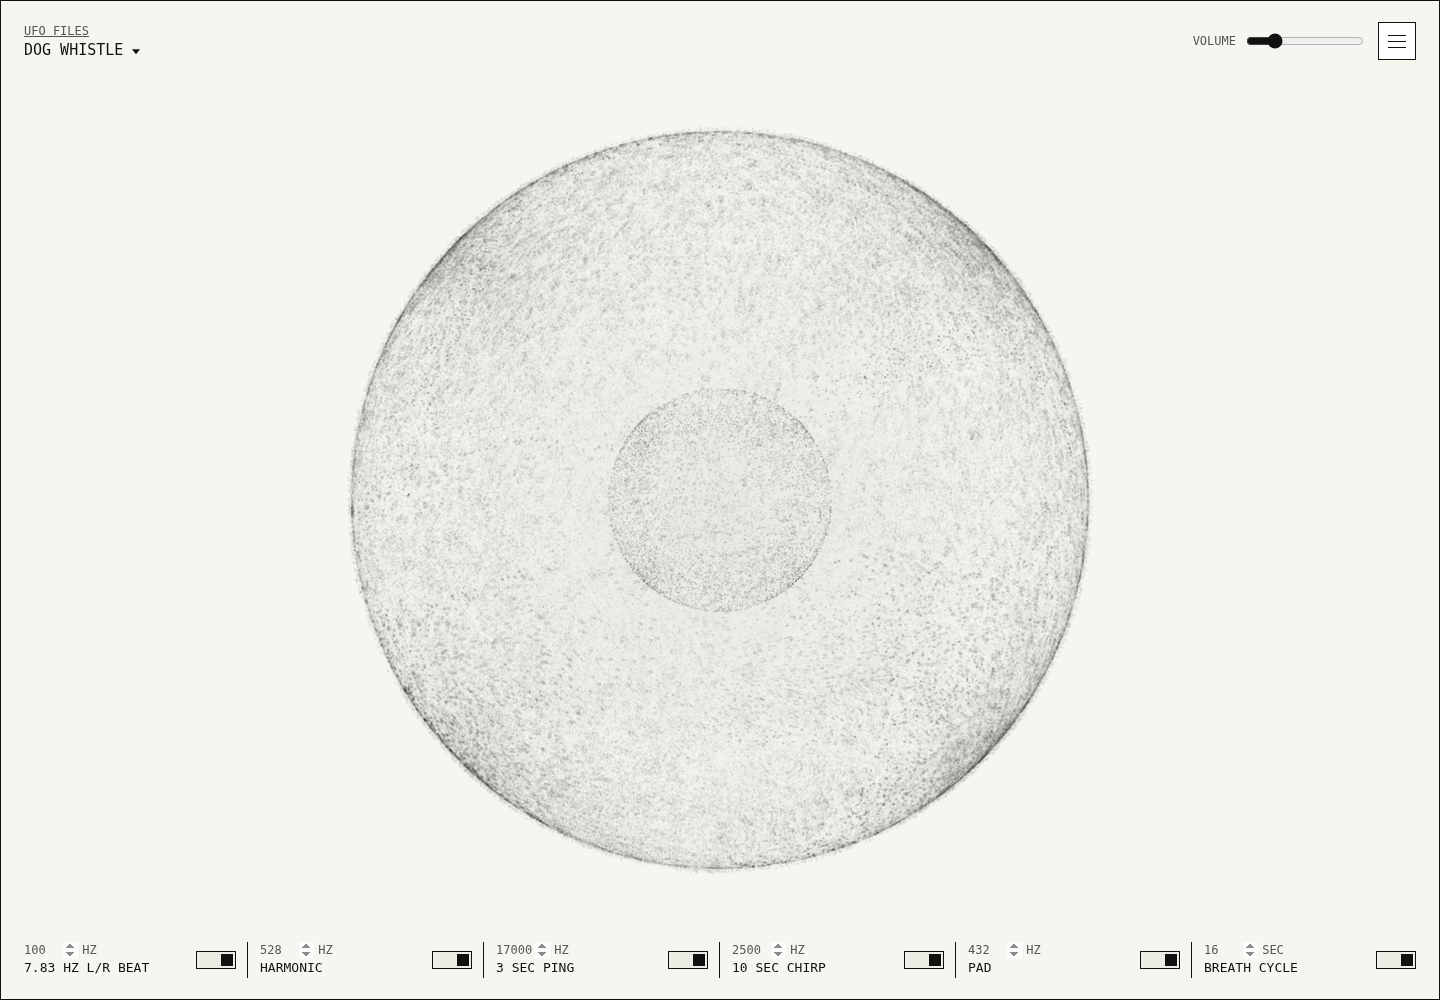
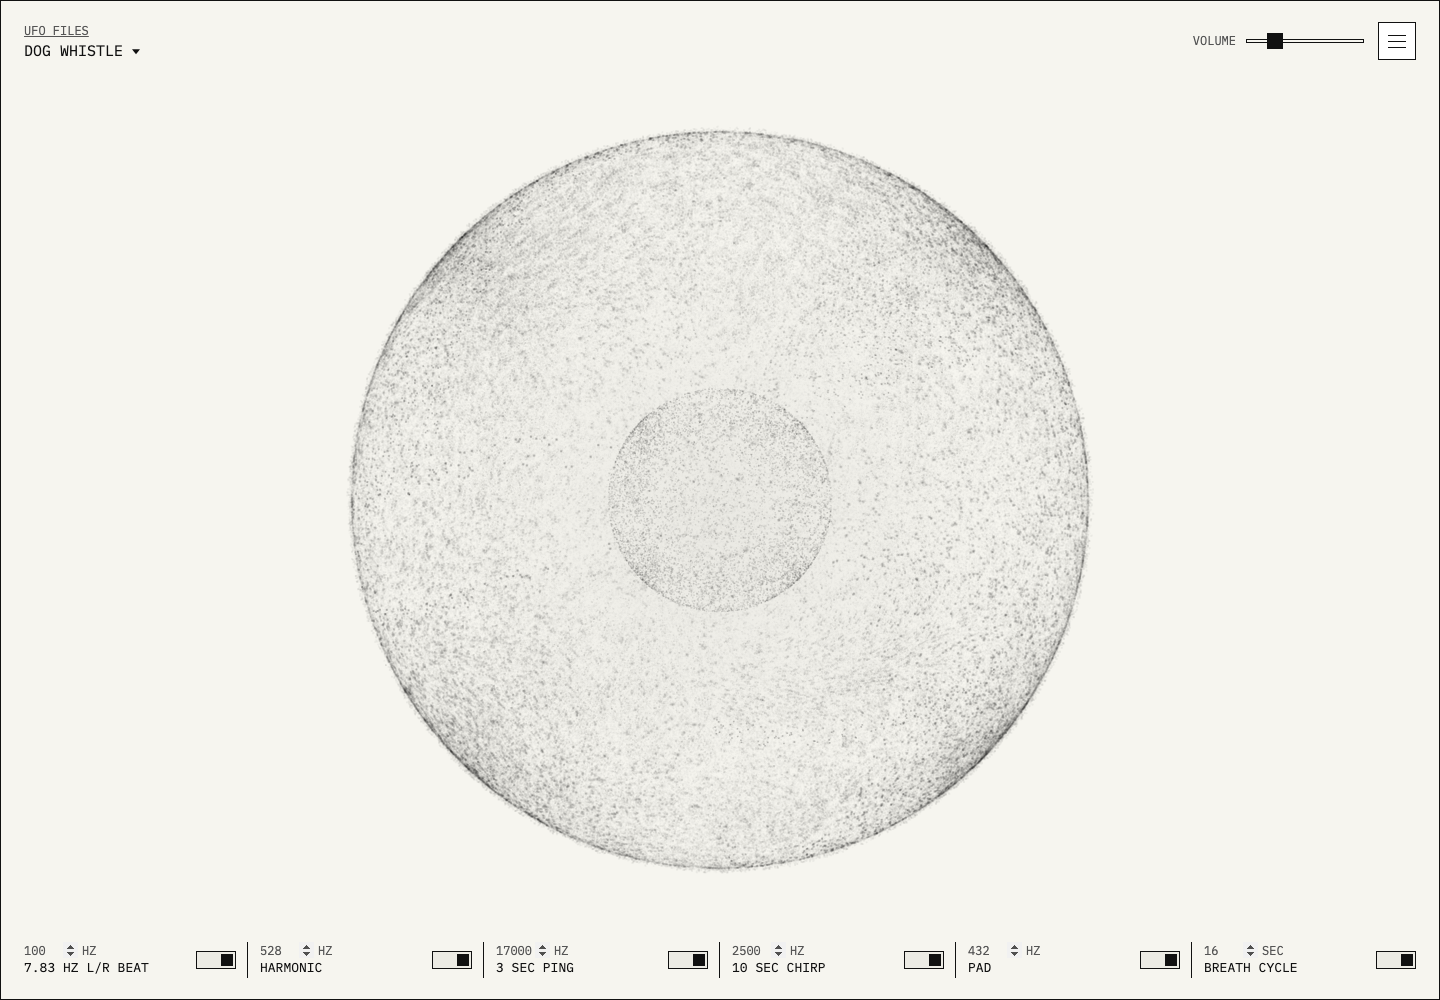
Square off slider controls and harden workflows

diff --git a/styles.css b/styles.css
@@ -285,7 +285,41 @@ select:focus-visible {
 input[type="range"] {
   width: 100%;
   padding: 0;
-  accent-color: var(--ink);
+  border: 0;
+  background: transparent;
+  appearance: none;
+  -webkit-appearance: none;
+}
+
+input[type="range"]::-webkit-slider-runnable-track {
+  height: 4px;
+  border: 1px solid var(--line);
+  background: var(--field);
+}
+
+input[type="range"]::-moz-range-track {
+  height: 4px;
+  border: 1px solid var(--line);
+  background: var(--field);
+}
+
+input[type="range"]::-webkit-slider-thumb {
+  width: 16px;
+  height: 16px;
+  margin-top: -7px;
+  border: 0;
+  border-radius: 0;
+  background: var(--ink);
+  appearance: none;
+  -webkit-appearance: none;
+}
+
+input[type="range"]::-moz-range-thumb {
+  width: 16px;
+  height: 16px;
+  border: 0;
+  border-radius: 0;
+  background: var(--ink);
 }
 
 select {